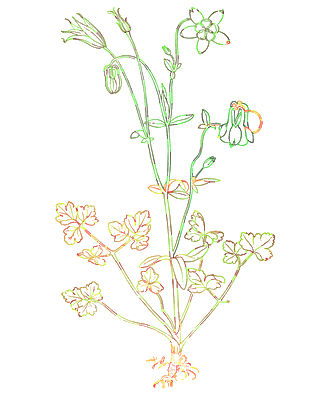
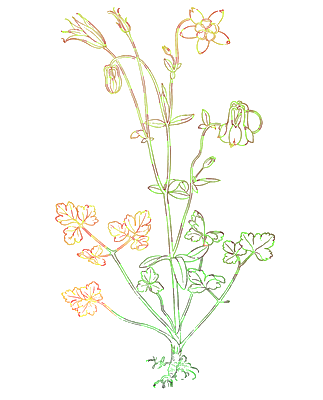
Draw the plants from the roots up so they look like they are growing

diff --git a/scripts/flowers.py b/scripts/flowers.py
@@ -4,10 +4,10 @@ For each drawing in scripts/flowers.json:
 1. Fetch it from Wikimedia Commons (cached in ~/.cache/flowers-src), blank its printed labels,
    crop, and lift the lines off the paper as an alpha mask.
 2. Thin the ink to centre lines and split them into strokes at ends and junctions.
-3. Order the strokes the way an artist plausibly would: start at the focal point (the densest ink,
-   leaning towards the top, usually the bloom) and work locally, always moving to the nearest
-   unfinished stroke, with short shading strokes costing a little extra so an area gets its
-   outline before its hatching.
+3. Order the strokes so the plant seems to grow: start at the base (the densest ink near the
+   bottom) and work locally, always moving to the nearest unfinished stroke, with strokes that
+   reach above the highest point so far costing extra (so it climbs) and short shading strokes
+   costing a little extra (so an area gets its outline before its hatching).
 4. Time it: the pen draws at a steady speed and lifts briefly between strokes. Every ink pixel
    takes the time of the nearest centre-line point, so the original texture stays intact.
 
@@ -82,21 +82,33 @@ def strokes_of(skel):
 
 
 def order_of(strokes, lengths, work):
-    density = ndimage.gaussian_filter(work, work.shape[1] / 8) * np.linspace(1.0, 0.55, work.shape[0])[:, None]
-    pen = np.array(np.unravel_index(np.argmax(density), density.shape), dtype=np.float32)
+    # Start at the very bottom (the roots, or where the stem meets the ground), at the densest ink there.
+    rows = np.nonzero((work > 0.2).sum(axis=1) > 3)[0]
+    band = work[max(0, rows[-1] - work.shape[0] // 12): rows[-1] + 1]
+    x = int(np.argmax(ndimage.gaussian_filter1d(band.sum(axis=0), work.shape[1] / 30)))
+    pen = np.array([rows[-1], x], dtype=np.float32)
     starts = np.array([s[0] for s in strokes])
     ends = np.array([s[-1] for s in strokes])
+    tops = np.array([s[:, 0].min() for s in strokes])
     penalty = np.where(lengths < 12, 18.0, np.where(lengths < 36, 6.0, 0.0)) - 0.1 * np.minimum(lengths, 80)
+    # Grow upwards: strokes reaching above the highest point drawn so far cost extra, so the
+    # drawing climbs from the base like a plant growing instead of starting at the bloom.
+    front = float(pen[0])
     left = np.ones(len(strokes), dtype=bool)
     order = []
     while left.any():
         idx = np.nonzero(left)[0]
         d_start = np.hypot(*(starts[idx] - pen).T)
         d_end = np.hypot(*(ends[idx] - pen).T)
-        k = int(np.argmin(np.minimum(d_start, d_end) + penalty[idx]))
-        i, flip = int(idx[k]), bool(d_end[k] < d_start[k])
+        climb = 1.2 * np.maximum(0, front - tops[idx])
+        k = int(np.argmin(np.minimum(d_start, d_end) + penalty[idx] + climb))
+        i = int(idx[k])
+        # Draw each stroke from its lower end where that is close enough, so lines grow upwards.
+        lower_first = starts[i][0] >= ends[i][0]
+        flip = bool(d_end[k] < d_start[k]) if abs(d_end[k] - d_start[k]) > 20 else not lower_first
         order.append((i, flip))
         pen = (strokes[i][0] if flip else strokes[i][-1]).copy()
+        front = min(front, float(tops[i]))
         left[i] = False
     return order
 

diff --git a/CLAUDE.md b/CLAUDE.md
@@ -12,7 +12,7 @@ npm run build && npx vite preview --port 4180
 ## Rules
 
 - Every word of editorial copy (posts, intro, about, project lines) belongs to the author. Never rewrite or add prose unless asked; only fix typos or facts when asked ("fix those"). Never use em dashes.
-- Design: "quiet craft". Calm editorial look (Newsreader for reading and headlines, Inter for interface text), near-white light mode by default with a dark mode, polish from small interactions rather than loud visuals. Reading progress in the corner of posts is a public domain nature drawing that redraws itself as you read, stroke by stroke in a plausible artist's order (no pen tip, no underdrawing). The order is worked out by `scripts/flowers.py`.
+- Design: "quiet craft". Calm editorial look (Newsreader for reading and headlines, Inter for interface text), near-white light mode by default with a dark mode, polish from small interactions rather than loud visuals. Reading progress in the corner of posts is a public domain nature drawing that redraws itself as you read, stroke by stroke in a plausible order that grows from the roots up (no pen tip, no underdrawing). The order is worked out by `scripts/flowers.py`.
 - Logo: the yk cube (`src/lib/components/Logo.svelte`). Five inner lines spell yk; the six outer edges quietly come and go in a slow loop that rests on the whole cube (still under reduced motion). Favicons are the whole cube: `static/favicon.svg` by hand, PNGs from `node scripts/icons.mjs`.
 - Keep pages fast and accessible: no heavy animation libraries, everything prerendered, works at phone width, respects reduced motion.
 
